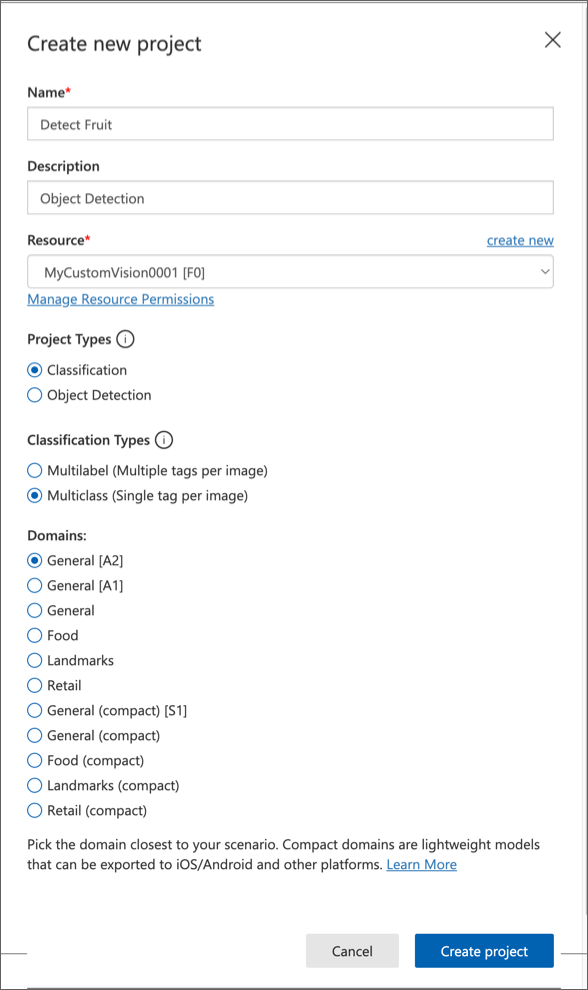
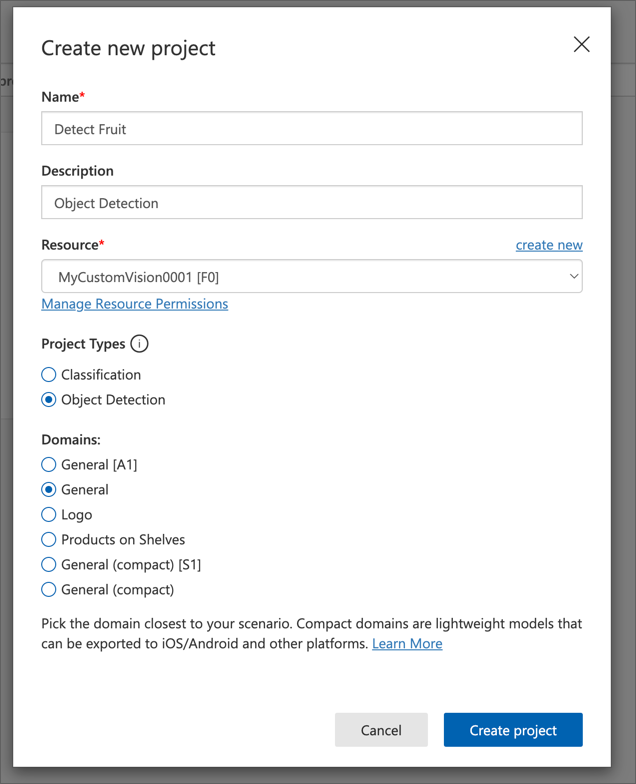
03までの翻訳完了

Changed region(s): [[0.0, 0.0, 1.0, 1.0], [0.7959, 0.3061, 0.9184, 0.3673]]

diff --git a/Labfiles/03-object-detection/C-Sharp/train-detector/Program.cs b/Labfiles/03-object-detection/C-Sharp/train-detector/Program.cs
@@ -76,6 +76,11 @@ namespace train_detector
                         
                         // Look up the tag ID for this tag name
                         var tag_item = tags.FirstOrDefault(t => t.Name == tag_name);
+                        if (tag_item == null)
+                        {
+                            Console.WriteLine($"Tag '{tag_name}' not found.");
+                            continue; // Skip this tag if not found
+                        }
                         Guid tag_id = tag_item.Id;
                         Double left = tag.GetProperty("left").GetDouble();
                         Double top = tag.GetProperty("top").GetDouble();

diff --git a/Instructions/Exercises/03-custom-vision-object-detection.md b/Instructions/Exercises/03-custom-vision-object-detection.md
@@ -2,95 +2,111 @@
 lab:
     title: 'Detect Objects in Images with Azure AI Custom Vision'
 ---
+# Azure AI カスタムビジョンで画像内のオブジェクトを検出する
 
-# Detect Objects in Images with Azure AI Custom Vision
+この演習では、カスタムビジョンサービスを使用して、画像内の3種類の果物（りんご、バナナ、オレンジ）を検出して位置を特定できるオブジェクト検出モデルをトレーニングします。
 
-In this exercise, you will use the Custom Vision service to train an *object detection* model that can detect and locate three classes of fruit (apple, banana, and orange) in an image.
+## このコースのリポジトリをクローンする
 
-## Clone the repository for this course
+まだ **Azure AI Vision** コードリポジトリを作業環境にクローンしていない場合は、以下の手順に従ってクローンしてください。すでにクローンしている場合は、Visual Studio Code でクローンしたフォルダーを開いてください。
 
-If you have already cloned **mslearn-ai-vision** code repository to the environment where you're working on this lab, open it in Visual Studio Code; otherwise, follow these steps to clone it now.
+1. Visual Studio Code を起動します。
+2. コマンドパレットを開きます (SHIFT+CTRL+P) そして **Git: Clone** コマンドを実行して、`https://github.com/MicrosoftLearning/mslearn-ai-vision` リポジトリをローカルフォルダーにクローンします（フォルダーはどこでも構いません）。
+3. リポジトリがクローンされたら、Visual Studio Code でフォルダーを開きます。
+4. リポジトリ内の C# コードプロジェクトをサポートするための追加ファイルがインストールされるのを待ちます。
+    > **注意**: ビルドとデバッグに必要なアセットを追加するように求められた場合は、**今は追加しない** を選択してください。*Azure Function プロジェクトがフォルダー内で検出されました* というメッセージが表示された場合は、そのメッセージを閉じても問題ありません。
 
-1. Start Visual Studio Code.
-2. Open the palette (SHIFT+CTRL+P) and run a **Git: Clone** command to clone the `https://github.com/MicrosoftLearning/mslearn-ai-vision` repository to a local folder (it doesn't matter which folder).
-3. When the repository has been cloned, open the folder in Visual Studio Code.
-4. Wait while additional files are installed to support the C# code projects in the repo.
+## カスタムビジョンリソースを作成する
 
-    > **Note**: If you are prompted to add required assets to build and debug, select **Not Now**.
+すでに Azure サブスクリプションにトレーニングと予測用の **カスタムビジョン** リソースがある場合は、それらを使用するか、既存のマルチサービスアカウントをこの演習で使用できます。まだない場合は、以下の手順に従って作成してください。
 
-## Create Custom Vision resources
+> **注意**: マルチサービスアカウントを使用する場合、トレーニングと予測のキーとエンドポイントは同じになります。
 
-If you already have **Custom Vision** resources for training and prediction in your Azure subscription, you can use them or an existing multi-service account in this exercise. If not, use the following instructions to create them.
+1. 新しいブラウザタブで Azure ポータル (`https://portal.azure.com`) を開き、Azure サブスクリプションに関連付けられた Microsoft アカウントでサインインします。
+2. **&#65291;リソースの作成** ボタンを選択し、*Custom vision* を検索して **Custom Vision** リソースを次の設定で作成します。
+    - **作成オプション**: 両方
+    - **サブスクリプション**: *あなたの Azure サブスクリプション*
+    - **リソースグループ**: *リソースグループを選択または作成します（制限されたサブスクリプションを使用している場合、新しいリソースグループを作成する権限がないかもしれません。その場合は提供されたものを使用してください）*
+    - **リージョン**: *利用可能なリージョンを選択*
+    - **名前**: *一意の名前を入力*
+    - **トレーニング価格レベル**: F0
+    - **予測価格レベル**: F0
 
-> **Note**: If you use a multi-service account, the key and endpoint will be the same for both your training and prediction.
+    > **注意**: サブスクリプションに既に F0 カスタムビジョンサービスがある場合は、今回は **S0** を選択してください。
 
-1. In a new browser tab, open the Azure portal at `https://portal.azure.com`, and sign in using the Microsoft account associated with your Azure subscription.
-2. Select the **&#65291;Create a resource** button, search for *custom vision*, and create a **Custom Vision** resource with the following settings:
-    - **Create options**: Both
-    - **Subscription**: *Your Azure subscription*
-    - **Resource group**: *Choose or create a resource group (if you are using a restricted subscription, you may not have permission to create a new resource group - use the one provided)*
-    - **Region**: *Choose any available region*
-    - **Name**: *Enter a unique name*
-    - **Training pricing tier**: F0
-    - **Prediction pricing tier**: F0
+    ![Create a custom vision](./img/create-a-custom-vision-resource.png)
 
-    > **Note**: If you already have an F0 custom vision service in your subscription, select **S0** for this one.
+3. リソースが作成されるのを待ち、デプロイメントの詳細を確認します。トレーニング用と予測用の2つのカスタムビジョンリソースがプロビジョニングされていることがわかります（**-Prediction** というサフィックスで識別できます）。これらは、作成したリソースグループに移動して確認できます。
 
-3. Wait for the resources to be created, and then view the deployment details and note that two Custom Vision resources are provisioned; one for training, and another for prediction (evident by the **-Prediction** suffix). You can view these by navigating to the resource group where you created them.
+> **重要**: 各リソースには独自の *エンドポイント* と *キー* があり、コードからのアクセスを管理するために使用されます。画像分類モデルをトレーニングするには、コードは *トレーニング* リソース（そのエンドポイントとキー）を使用する必要があります。そして、トレーニングされたモデルを使用して画像のクラスを予測するには、コードは *予測* リソース（そのエンドポイントとキー）を使用する必要があります。
 
-> **Important**: Each resource has its own *endpoint* and *keys*, which are used to manage access from your code. To train an image classification model, your code must use the *training* resource (with its endpoint and key); and to use the trained model to predict image classes, your code must use the *prediction* resource (with its endpoint and key).
+## カスタムビジョンプロジェクトを作成する
 
-## Create a Custom Vision project
+オブジェクト検出モデルをトレーニングするには、トレーニングリソースに基づいたカスタムビジョンプロジェクトを作成する必要があります。これを行うには、カスタムビジョンポータルを使用します。
 
-To train an object detection model, you need to create a Custom Vision project based on your training resource. To do this, you'll use the Custom Vision portal.
-
-1. In a new browser tab, open the Custom Vision portal at `https://customvision.ai`, and sign in using the Microsoft account associated with your Azure subscription.
-2. Create a new project with the following settings:
+1. 新しいブラウザタブで `https://customvision.ai` にアクセスし、Azure サブスクリプションに関連付けられた Microsoft アカウントでサインインします。
+2. 次の設定で新しいプロジェクトを作成します：
     - **Name**: Detect Fruit
-    - **Description**: Object detection for fruit.
-    - **Resource**: *The Custom Vision resource you created previously*
-    - **Project Types**: Object Detection
+    - **Description**: Object Detection
+    - **Resource**: *前に作成したカスタムビジョンリソース*
+    - **Project Type**: Object Detection
     - **Domains**: General
-3. Wait for the project to be created and opened in the browser.
+  
+    ![Create new custom vision project](./img/create-new-custom-vision-project.png)
+3. プロジェクトが作成され、ブラウザで開かれるのを待ちます。
 
-## Add and tag images
+## 画像を追加してタグを付ける
 
-To train an object detection model, you need to upload images that contain the classes you want the model to identify, and tag them to indicate bounding boxes for each object instance.
+オブジェクト検出モデルをトレーニングするには、モデルが識別したいクラス（この演習の場合はりんご、バナナ、オレンジ）を含む画像をアップロードし、それぞれのオブジェクトの位置を示すバウンディングボックス（囲み枠）にタグを付ける必要があります。
 
-1. In Visual Studio Code, view the training images in the **03-object-detection/training-images** folder where you cloned the repository. This folder contains images of fruit.
-2. In the Custom Vision portal, in your object detection project, select **Add images** and upload all of the images in the extracted folder.
-3. After the images have been uploaded, select the first one to open it.
-4. Hold the mouse over any object in the image until an automatically detected region is displayed like the image below. Then select the object, and if necessary resize the region to surround it.
+1. Visual Studio Code で、リポジトリをクローンした **03-object-detection/training-images** フォルダーにあるトレーニング画像を表示します。このフォルダーには果物の画像が含まれています。
+2. カスタムビジョンポータルで、オブジェクト検出プロジェクト内の **Add images** を選択し、フォルダー内のすべての画像をアップロードします。
 
-    ![The default region for an object](../media/object-region.jpg)
+    ![Add images 1](./img/custom_vision_portal_upload_images_1.png)
 
-    Alternatively, you can simply drag around the object to create a region.
+    ![Add images 2](./img/custom_vision_portal_upload_images_2.png)
 
-5. When the region surrounds the object, add a new tag with the appropriate object type (*apple*, *banana*, or *orange*) as shown here:
+3. 画像がアップロードされたら、最初の画像を選択して開きます。
+4. 画像内の任意のオブジェクトにマウスをかざすと、自動的に検出された領域が表示されます（下の画像のように）。次にオブジェクトを選択し、必要に応じて領域を調整して囲みます。
+   
+    ![オブジェクトのデフォルト領域](../media/object-region.jpg)
 
-    ![A tagged object in an image](../media/object-tag.jpg)
+    または、オブジェクトの周りをドラッグして領域を作成することもできます。
 
-6. Select and tag each other object in the image, resizing the regions and adding new tags as required.
+5. 領域がオブジェクトを囲んだら、適切なオブジェクトタイプ（*apple*、*banana*、または*orange*）の新しいタグを追加します。以下の画像を参考にしてください：
 
-    ![Two tagged objects in an image](../media/object-tags.jpg)
+    ![画像内のタグ付きオブジェクト](../media/object-tag.jpg)
 
-7. Use the **>** link on the right to go to the next image, and tag its objects. Then just keep working through the entire image collection, tagging each apple, banana, and orange.
+6. 画像内の他のオブジェクトも選択してタグを付け、必要に応じて領域のサイズを変更し、新しいタグを追加します。
 
-8. When you have finished tagging the last image, close the **Image Detail** editor. On the **Training Images** page, under **Tags**, select **Tagged** to see all of your tagged images:
+    ![画像内の2つのタグ付きオブジェクト](../media/object-tags.jpg)
 
-![Tagged images in a project](../media/tagged-images.jpg)
+7. 右側の **>** リンクを使って次の画像に進み、そのオブジェクトにタグを付けます。すべての画像に対して、apple、banana、orangeのタグを付けていきます。
 
-## Use the Training API to upload images
+8. 最後の画像にタグを付け終わったら、**Image Detail** エディターを閉じます。**Training Images** ページで、**Tags** の下にある **Tagged(タグ付き)** を選択して、タグを付けたすべての画像を確認します。
 
-You can use the UI in the Custom Vision portal to tag your images, but many AI development teams use other tools that generate files containing information about tags and object regions in images. In scenarios like this, you can use the Custom Vision training API to upload tagged images to the project.
+    ![プロジェクト内のタグ付き画像](../media/tagged-images.jpg)
 
-> **Note**: In this exercise, you can choose to use the API from either the **C#** or **Python** SDK. In the steps below, perform the actions appropriate for your preferred language.
+## トレーニング API を使用して画像をアップロードする
 
-1. Click the *settings* (&#9881;) icon at the top right of the **Training Images** page in the Custom Vision portal to view the project settings.
-2. Under **General** (on the left), note the **Project Id** that uniquely identifies this project.
-3. On the right, under **Resources** note that the key and endpoint are shown. These are the details for the *training* resource (you can also obtain this information by viewing the resource in the Azure portal).
-4. In Visual Studio Code, under the **03-object-detection** folder, expand the **C-Sharp** or **Python** folder depending on your language preference.
-5. Right-click the **train-detector** folder and open an integrated terminal. Then install the Custom Vision Training package by running the appropriate command for your language preference:
+カスタムビジョンポータルの UI を使用して画像にタグを付けることもできますが、多くの AI 開発チームは、画像内のタグやオブジェクト領域に関する情報を含むファイルを生成する他のツールを使用しています。このようなシナリオでは、カスタムビジョンのトレーニング API を使用して、タグ付き画像をプロジェクトにアップロードすることができます。
+
+> **注意**: この演習では、**C#** または **Python** SDK のいずれかを使用して API を利用します。以下の手順では、あなたの好みの言語に応じた手順を実行してください。
+
+1. カスタムビジョンポータルの **Training Images** ページの右上にある *設定* (&#9881;) アイコンをクリックして、プロジェクト設定を表示します。
+
+    ![Setting Icon](./img/setting_icon.png)
+
+2. 左側の **General** のセクションに、このプロジェクトを一意に識別する **Project Id** が表示されていることを確認します。
+
+    ![Project ID](./img/project_setting_project_id.png)
+
+3. 右側の **Resources:** の下に、キーとエンドポイントが表示されていることを確認します。これらは *トレーニング* リソースの詳細です（Azure ポータルでリソースを表示してもこの情報を取得できます）。
+
+    ![Key & Endpoint](./img/project_setting_key_and_endpoint.png)
+
+4. Visual Studio Code で、**03-object-detection** フォルダーの下にある **C-Sharp** または **Python** フォルダーを展開します（使用する言語に応じて選択してください）。
+5. **train-detector** フォルダーを右クリックして、統合ターミナルを開きます。次に、使用する言語に応じて以下のコマンドを実行して、カスタムビジョントレーニングパッケージをインストールしてください。
 
 **C#**
 
@@ -104,29 +120,37 @@ dotnet add package Microsoft.Azure.CognitiveServices.Vision.CustomVision.Trainin
 pip install azure-cognitiveservices-vision-customvision==3.1.1
 ```
 
-6. View the contents of the **train-detector** folder, and note that it contains a file for configuration settings:
+6. **train-detector** フォルダーの内容を確認し、設定ファイルが含まれていることを確認します：
     - **C#**: appsettings.json
     - **Python**: .env
 
-    Open the configuration file and update the configuration values it contains to reflect the endpoint and key for your Custom Vision *training* resource, and the project ID for the object detection project you created previously. Save your changes.
+    設定ファイルを開き、カスタムビジョンの **トレーニング** リソースのエンドポイントとキー、および先ほど作成したオブジェクト検出プロジェクトのプロジェクトIDを反映するように設定値を変更します。変更したら設定ファイルを保存してください。
 
-7. In the **train-detector** folder, open **tagged-images.json** and examine the JSON it contains. The JSON defines a list of images, each containing one or more tagged regions. Each tagged region includes a tag name, and the top and left coordinates and width and height dimensions of the bounding box containing the tagged object.
+    *設定例(C#, appsettings.json)*
+    ![appsettings.json](./img/appsettings_json.png)
 
-    > **Note**: The coordinates and dimensions in this file indicate relative points on the image. For example, a *height* value of 0.7 indicates a box that is 70% of the height of the image. Some tagging tools generate other formats of file in which the coordinate and dimension values represent pixels, inches, or other units of measurements.
+    *設定例(Python, .env)*
+    ![.env](./img/dot_env.png)
 
-8. Note that the **train-detector** folder contains a subfolder in which the image files referenced in the JSON file are stored.
+7. **train-detector** フォルダー内の **tagged-images.json** を開き、その中に含まれる JSON を確認します。この JSON には、1つ以上のタグ付き領域を含む画像のリストが定義されています。各タグ付き領域には、タグ名、バウンディングボックス（囲み枠）の上端と左端の座標、およびその幅と高さの寸法が含まれています。
 
-9. Note that the **train-detector** folder contains a code file for the client application:
+    > **注意**: このファイルの座標と寸法は、画像上の相対的なポイントを示しています。例えば、*height* の値が 0.7 の場合、画像の高さの 70% のボックスを示します。一部のタグ付けツールは、座標と寸法の値をピクセル、インチ、または他の単位で表す形式のファイルを生成することがあります。
+
+    ![tagged-images.json](./img/tagged-images_json.png)
+
+8. **train-detector** フォルダーには、JSONファイルで参照されている画像ファイルが保存されているサブフォルダーが含まれていることを確認してください。
+
+9. **train-detector** フォルダーには、クライアントアプリケーションのコードファイルが含まれていることを確認してください。
 
     - **C#**: Program.cs
     - **Python**: train-detector.py
 
-    Open the code file and review the code it contains, noting the following details:
-    - Namespaces from the package you installed are imported
-    - The **Main** function retrieves the configuration settings, and uses the key and endpoint to create an authenticated **CustomVisionTrainingClient**, which is then used with the project ID to create a **Project** reference to your project.
-    - The **Upload_Images** function extracts the tagged region information from the JSON file and uses it to create a batch of images with regions, which it then uploads to the project.
+    コードファイルを開き、その内容を確認します。以下の点に注意してください。
+    - インストールしたパッケージの名前空間がインポートされています。
+    - **Main** 関数は設定値を取得し、キーとエンドポイントを使用して認証された **CustomVisionTrainingClient** オブジェクトを作成します。これを使用してプロジェクトIDと共にプロジェクトの **Project** 参照を作成します。
+    - **Upload_Images** 関数はJSONファイルからタグ付き領域情報を抽出し、それを使用して画像と領域のバッチを作成し、プロジェクトにアップロードします。
 
-10. Return the integrated terminal for the **train-detector** folder, and enter the following command to run the program:
+10. **train-detector** フォルダーの統合ターミナルに戻り、以下のコマンドを入力してプログラムを実行します。
     
     **C#**
     
@@ -139,34 +163,54 @@ pip install azure-cognitiveservices-vision-customvision==3.1.1
     ```
     python train-detector.py
     ```
+11. プログラムが終了するまでしばらく待ちます。その後、ブラウザに戻り、カスタムビジョンポータルのプロジェクトの **Training Images** ページを表示します（必要に応じてブラウザをリフレッシュしてください）。
+12. プロジェクトに新しいタグ付き画像が追加されていることを確認します。
     
-11. Wait for the program to end. Then return to your browser and view the **Training Images** page for your project in the Custom Vision portal (refreshing the browser if necessary).
-12. Verify that some new tagged images have been added to the project.
 
-## Train and test a model
+## モデルをトレーニングしてテストする
 
-Now that you've tagged the images in your project, you're ready to train a model. You
+プロジェクト内の画像にタグを付けたので、モデルをトレーニングする準備ができました。
 
-1. In the Custom Vision project, click **Train** to train an object detection model using the tagged images. Select the **Quick Training** option.
-2. Wait for training to complete (it might take ten minutes or so), and then review the *Precision*, *Recall*, and *mAP* performance metrics - these measure the prediction accuracy of the classification model, and should all be high.
-3. At the top right of the page, click **Quick Test**, and then in the **Image URL** box, enter `https://aka.ms/apple-orange` and view the prediction that is generated. Then close the **Quick Test** window.
+1. カスタムビジョンプロジェクトで、**Train** をクリックして、タグ付けされた画像を使ってオブジェクト検出モデルをトレーニングします。**Quick Training** オプションを選択します。
 
-## Publish the object detection model
+    ![Start quick training](./img/start_quicktraining.png)
 
-Now you're ready to publish your trained model so that it can be used from a client application.
+2. トレーニングが完了するのを待ちます（約10分ほどかかることがあります）。その後、*Precision*（精度）、*Recall*（再現率）、および *mAP*（平均適合率）のパフォーマンス指標を確認します。これらは分類モデルの予測精度を測定するもので、すべて高い値であるべきです。
 
-1. In the Custom Vision portal, on the **Performance** page,  click **&#128504; Publish** to publish the trained model with the following settings:
-    - **Model name**: fruit-detector
-    - **Prediction Resource**: *The **prediction** resource you created previously which ends with "-Prediction" (<u>not</u> the training resource)*.
-2. At the top left of the **Project Settings** page, click the *Projects Gallery* (&#128065;) icon to return to the Custom Vision portal home page, where your project is now listed.
-3. On the Custom Vision portal home page, at the top right, click the *settings* (&#9881;) icon to view the settings for your Custom Vision service. Then, under **Resources**, find your *prediction* resource which ends with "-Prediction" (<u>not</u> the training resource) to determine its **Key** and **Endpoint** values (you can also obtain this information by viewing the resource in the Azure portal).
+    ![Result of Training](./img/cv_training_result.png)
 
-## Use the image classifier from a client application
+3. ページの右上にある **Quick Test** をクリックし、**Image URL** ボックスに `https://aka.ms/apple-orange` と入力して生成された予測を確認します。その後、**Quick Test** ウィンドウを閉じます。
 
-Now that you've published the image classification model, you can use it from a client application. Once again, you can choose to use **C#** or **Python**.
+    ![Result of Quick Test](./img/cv_result_of_quicktest.png)
 
-1. In Visual Studio Code, browse to the **03-object-detection** folder and in the folder for your preferred language (**C-Sharp** or **Python**), expand the **test-detector** folder.
-2. Right-click the **test-detector** folder and open an integrated terminal. Then enter the following SDK-specific command to install the Custom Vision Prediction package:
+## オブジェクト検出モデルを公開する
+
+トレーニングしたモデルをクライアントアプリケーションから使用できるように公開します。
+
+1. カスタムビジョンポータルの **Performance** ページで、**&#128504; Publish** をクリックし、次の設定でトレーニング済みモデルを公開します。
+    - **Model Name**: fruit-detector
+    - **Prediction resource**: *以前に作成した **Prediction** リソース（名前が "-Prediction" で終わるもの）*。
+
+      ![Publish Model](./img/cv_publish_model.png)
+
+2. **プロジェクト設定** ページの左上にある *プロジェクトギャラリー* (&#128065;) アイコンをクリックして、カスタムビジョンポータルのホームページに戻ります。ここにあなたのプロジェクトが表示されます。
+
+    ![CV Project garelly](./img/cv_project_garelly.png)
+
+3. カスタムビジョンポータルのホームページの右上にある *設定* (&#9881;) アイコンをクリックして、カスタムビジョンサービスの設定を表示します。次に、**リソース** の下にある名前が "-Prediction" で終わる *予測* リソースを見つけ、その **キー** と **エンドポイント** の値を確認します（この情報は Azure ポータルでリソースを表示しても取得できます）。
+
+    ![CV-Settgings-Resources Key & Endpoint](./img/cv_settings_resources.png)
+
+
+## クライアントアプリケーションから画像分類モデルを使用する
+
+画像分類モデルを公開したので、クライアントアプリケーションから使用することができます。ここでも、**C#** または **Python** のどちらかを選択できます。
+
+> **注意**: この演習で使用するC#のコードファイルは`System.Drawing.Common` パッケージを使用します。このパッケージはMacOSに対応していないため、MacOSでは実行できません。例外エラーで停止します。
+
+1. Visual Studio Code で、**03-object-detection** フォルダーに移動し、希望する言語のフォルダー（**C-Sharp** または **Python**）を展開して、**test-detector** フォルダーを開きます。
+
+2. **test-detector** フォルダーを右クリックして統合ターミナルを開き、次のSDK固有のコマンドを入力してCustom Vision Predictionパッケージをインストールします。
 
 **C#**
 
@@ -180,14 +224,14 @@ dotnet add package Microsoft.Azure.CognitiveServices.Vision.CustomVision.Predict
 pip install azure-cognitiveservices-vision-customvision==3.1.1
 ```
 
-> **Note**: The Python SDK package includes both training and prediction packages, and may already be installed.
+> **注意**: Python SDK パッケージにはトレーニングと予測の両方のパッケージが含まれていますので、すでにインストールされているかもしれません。
 
-3. Open the configuration file for your client application (*appsettings.json* for C# or *.env* for Python) and update the configuration values it contains to reflect the endpoint and key for your Custom Vision *prediction* resource, the project ID for the object detection project, and the name of your published model (which should be *fruit-detector*). Save your changes.
-4. Open the code file for your client application (*Program.cs* for C#, *test-detector.py* for Python) and review the code it contains, noting the following details:
-    - Namespaces from the package you installed are imported
-    - The **Main** function retrieves the configuration settings, and uses the key and endpoint to create an authenticated **CustomVisionPredictionClient**.
-    - The prediction client object is used to get object detection predictions for the **produce.jpg** image, specifying the project ID and model name in the request. The predicted tagged regions are then drawn on the image, and the result is saved as **output.jpg**.
-5. Return to the integrated terminal for the **test-detector** folder, and enter the following command to run the program:
+3. クライアントアプリケーションの設定ファイル（C#の場合は *appsettings.json*、Pythonの場合は *.env*）を開き、カスタムビジョンの**Prediction**リソースのエンドポイントとキー、オブジェクト検出プロジェクトのプロジェクトID、および公開したモデルの名前（*fruit-detector*）を反映するように設定値を更新します。変更を保存してください。
+4. クライアントアプリケーションのコードファイル（C#の場合は *Program.cs*、Pythonの場合は *test-detector.py*）を開き、以下の点に注意しながらコードを確認します：
+    - インストールしたパッケージの名前空間がインポートされています。
+    - **Main** 関数は設定値を取得し、キーとエンドポイントを使用して認証された **CustomVisionPredictionClient** オブジェクト(予測クライアントオブジェクト)を作成します。
+    - 予測クライアントオブジェクトを使用して、**produce.jpg** 画像のオブジェクト検出予測を取得し、リクエストにプロジェクトIDとモデル名を指定します。予測されたタグ付き領域が画像に描画され、結果が **output.jpg** として保存されます。
+5. **test-detector** フォルダーの統合ターミナルに戻り、以下のコマンドを入力してプログラムを実行します：
 
 **C#**
 
@@ -201,8 +245,10 @@ dotnet run
 python test-detector.py
 ```
 
-6. After the program has completed, view the resulting **output.jpg** file to see the detected objects in the image.
+6. プログラムが完了したら、結果として生成された **output.jpg** ファイルを表示して、画像内で検出されたオブジェクトを確認してください。
 
-## More information
+*output.jpg 出力結果*
+![output.jpg](./img/cv_test-detector_output.jpg)
 
-For more information about object detection with the Custom Vision service, see the [Custom Vision documentation](https://docs.microsoft.com/azure/cognitive-services/custom-vision-service/).
+## 詳細情報
+詳細については、[カスタムビジョンのドキュメント](https://docs.microsoft.com/azure/cognitive-services/custom-vision-service/)を参照してください。
